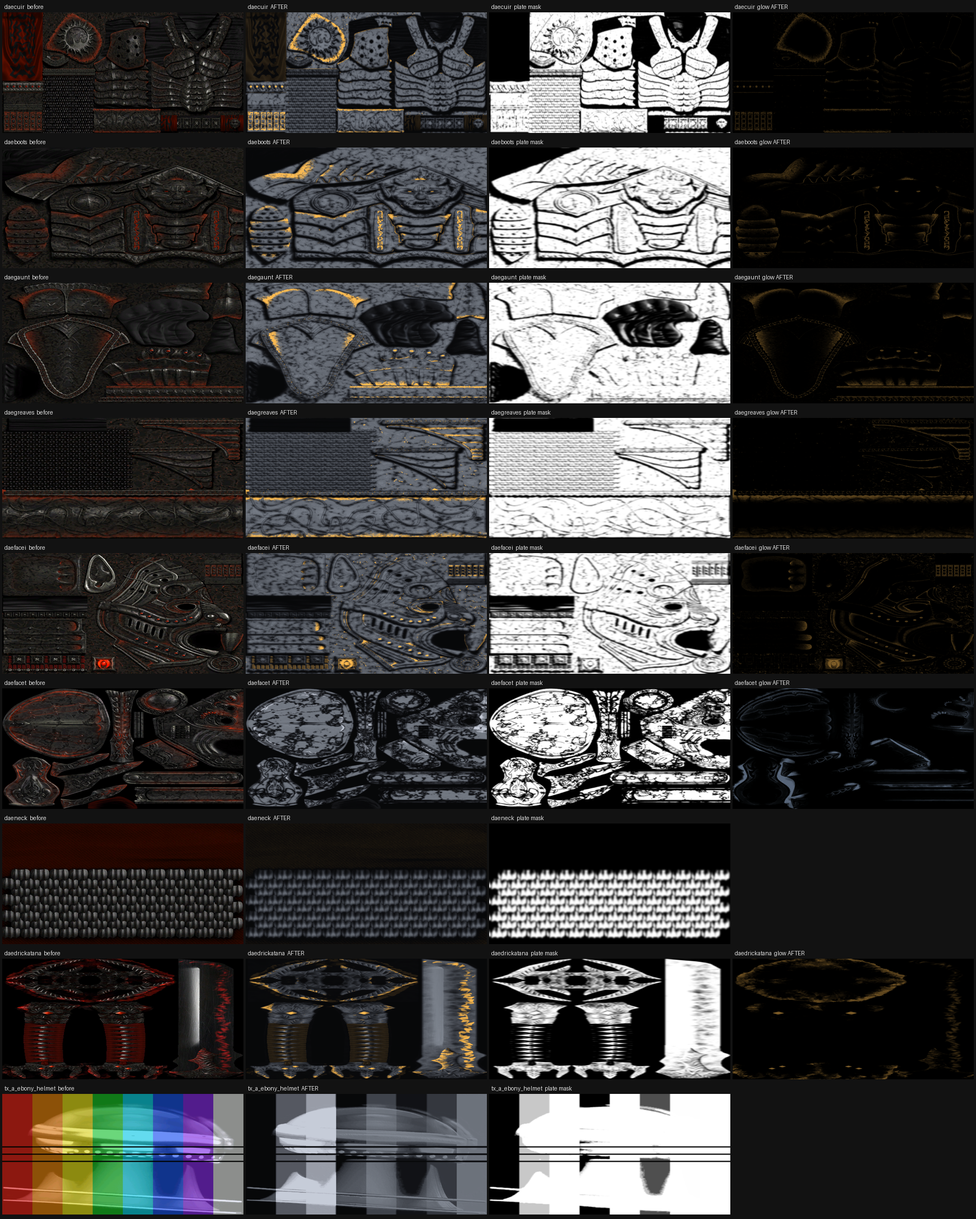
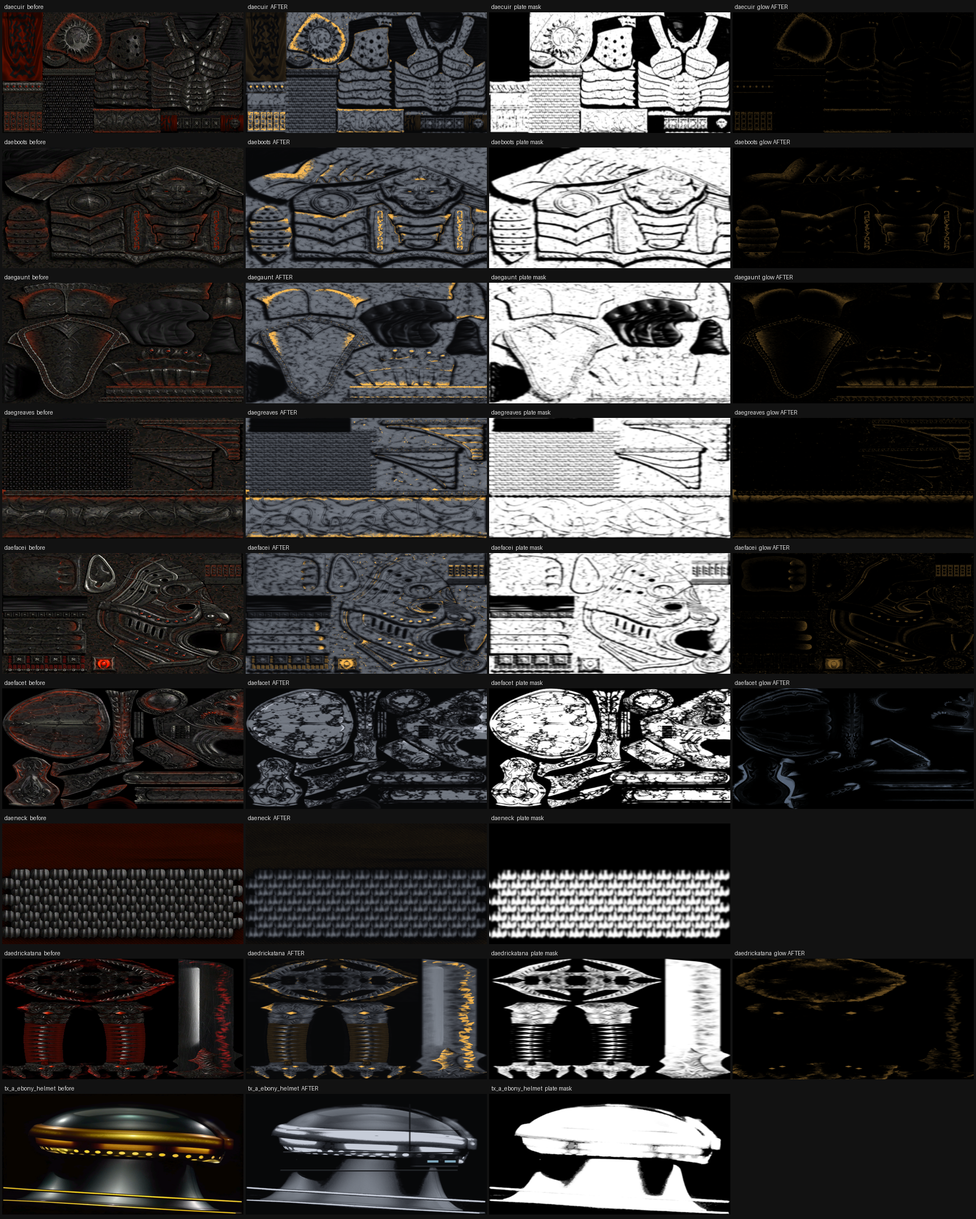
Bold and few on the helm, placed from the measured anchors
Faig's steer: similar to the reference, not a copy of it, and no
madness. Right call - the helm is about a hundred pixels tall on screen,
so anything finer than a few texture pixels is mush at the only
distance that matters.

So: two crown seams that stop short of the pole, a brow groove, a dark
face plate that ends at the temples, two slits with a cool inner line,
and the seam where the flare begins. That is the whole layout.

Placement is in sheet coordinates anchored on his two readings, not
derived from the mesh. Rasterising was tried and this mesh will not
support it: its UV islands overlap heavily, different parts of the
shell share the same pixels, and resolving that by "furthest surface
wins" turns the azimuth map into a patchwork. What the raster is good
for is the coverage mask, and that is what it supplies here - it keeps
the drawing on the helmet instead of across the empty margins.

The overlap resolution is kept in uvmap.py anyway, because the
rectangular tears it fixes were real and the next mesh may unwrap
cleanly.

Changed region(s): [[0.0, 0.8942, 0.7759, 1.0]]

diff --git a/tools/scripts/paint_helm.py b/tools/scripts/paint_helm.py
@@ -1,64 +1,65 @@
 #!/usr/bin/env python3
-"""Paint a Pragmata-style panel layout onto the closed helm.
+"""Paint a few bold panel features onto the closed helm.
 
 Drawn on top of the converted texture, never instead of it, so the plate colour,
-the marbling, the kant and the baked sheen all come through and the helm belongs
-to the same set as the cuirass. Faig asked for that in as many words: it has to
-feel like a suit, not a hat from another game.
+the marbling, the kant and the baked sheen come through and the helm belongs to
+the same set as the cuirass. Faig asked for that in as many words.
 
-## Everything is placed on the helmet, not on the sheet
+## Similar, not identical
 
-The first version drew in sheet coordinates and assumed the horizontal axis ran
-evenly around the head. It does not. This helm's unwrap is closer to a side
-projection: a straight-line fit of u against azimuth leaves 0.10 turns of
-residual - 36 degrees - and the drawing landed across the empty margins as well
-as the helmet.
+His steer, and it is the right one: make it *like* the reference, not a copy of
+it. The helmet is about a hundred pixels tall on screen, so anything finer than
+a few texture pixels is mush at the only distance that matters. Few shapes, big,
+legible. A greeble field would be work spent on something nobody can see.
 
-So the layout is specified where it belongs, in **height and azimuth on the
-actual helmet**, and `uvmap.py` rasterises the mesh's own triangles to tell each
-pixel which point of the helmet it is. No fit, no residual.
+## How placement works, and what it costs
 
-Two numbers anchor it, and only one of them could not be computed:
+Two coordinate systems were tried.
 
-    FRONT_AZ = +0.0873   which way the helmet faces
-    EYE_H    = -0.30     the height of the eyes
+Rasterising the mesh gives an exact per-pixel map - `uvmap.py` still does, and
+its **coverage mask is used here**, which is what keeps the drawing on the
+helmet instead of across the empty margins. But this mesh's UV islands overlap
+heavily: different parts of the shell share the same pixels, and resolving that
+by "the surface furthest out wins" turns the azimuth map into a patchwork. The
+mesh simply does not carry a clean unwrap to paint on.
 
-Geometry cannot say which way a helmet faces, so that was measured on screen:
-`uv_calibrate.py` painted eight named colour bands and three rules, Faig wore it
-and looked, and reported violet at the front and the bottom rule on his eyes.
-Those two readings became these two numbers.
+What it does carry is enough for the *visible* surface, and the calibration
+screenshot proves it: the eight colour bands came out in order across the front
+of the helm. So placement is done in sheet coordinates, anchored on the two
+readings Faig took, and refined against screenshots rather than derived.
 
-Height landmarks on this helm, read off the rasterised map: crown +8.6, the wide
-band +4.0, the stud row +1.5, eyes -0.3, the neck flare below -1.7.
+    FRONT_U = 0.8125   the violet band, measured on screen
+    EYE_V   = 0.56     the bottom rule, measured on screen
+
+That is worth perhaps ten or twenty degrees of imprecision, which is why every
+feature here is wide enough not to care.
 
 ## Why the relief is faint
 
 No geometry is generated - the rules forbid it - so depth is faked with a dark
-groove and a lit lip. It stays subtle on purpose: the shading is baked from one
-fixed direction while the engine lights the helm from wherever the sun is, and a
-strong bake contradicts the real light the moment the player turns round. Soft
-edges survive that. Dramatic chiaroscuro does not.
+groove and a lit lip above it. It stays subtle on purpose: the shading is baked
+from one direction while the engine lights the helm from wherever the sun is, so
+a strong bake contradicts the real light the moment the player turns round.
 """
 
 import numpy as np
 
-FRONT_AZ = 0.0873       # measured on screen, 2026-08-30
-EYE_H = -0.30
+FRONT_U = 0.8125        # measured on screen, 2026-08-30
+EYE_V = 0.56
 
-VISOR_TOP = 1.15        # heights, in the mesh's own units
-VISOR_BOTTOM = -1.55
-BROW_H = 2.35
-CROWN_SEAM_H = 5.25
-FLARE_H = -1.95
+CROWN_SEAM_V = 0.300
+BROW_V = 0.487
+VISOR_TOP = 0.505
+VISOR_BOTTOM = 0.605
+FLARE_V = 0.638
 
 DARK = np.array([0.055, 0.060, 0.072], np.float32)    # a groove
-VISOR = np.array([0.048, 0.053, 0.066], np.float32)   # the face plate
+VISOR = np.array([0.050, 0.055, 0.068], np.float32)   # the face plate
 LIP = np.array([0.74, 0.77, 0.83], np.float32)        # the lit edge of a panel
-OPTIC = np.array([0.60, 0.78, 0.88], np.float32)      # the slit itself
+OPTIC = np.array([0.58, 0.76, 0.86], np.float32)      # the slit itself
 
 
 def _turns(a):
-    """Wrap a difference in turns to -0.5 .. 0.5."""
     return (a + 0.5) % 1.0 - 0.5
 
 
@@ -68,65 +69,56 @@ def _span(x, lo, hi, soft):
             * np.clip((hi - x) / soft + 1.0, 0.0, 1.0))
 
 
-def _line(x, at, half, soft):
+def _rule(x, at, half, soft):
     return _span(np.abs(x - at), -1.0, half, soft)
 
 
-def paint(rgba, height, azimuth, cover, strength=1.0):
-    """Return the texture with the panel layout drawn on it.
-
-    `height`, `azimuth` and `cover` come from `uvmap.rasterise` and
-    `uvmap.polar` - per pixel, where on the helmet this pixel lands and whether
-    it lands on it at all. Nothing is drawn off the helmet.
-    """
+def paint(rgba, cover=None, strength=1.0):
+    """Return the texture with the panel features drawn on it."""
+    h, w = rgba.shape[:2]
+    rows, cols = np.mgrid[0:h, 0:w].astype(np.float32)
+    v = rows / (h - 1)
+    u = cols / (w - 1)
+    du = _turns(u - FRONT_U)
     out = rgba.copy()
-    body = np.asarray(cover, np.float32)
-    da = _turns(azimuth - FRONT_AZ)      # 0 dead ahead
-    ahead = np.abs(da)
+    body = (np.ones((h, w), np.float32) if cover is None
+            else np.asarray(cover, np.float32))
 
     def lay(mask, colour, amount=1.0):
         m = np.clip(mask * body * strength * amount, 0.0, 1.0)[..., None]
         out[..., :3] = out[..., :3] * (1.0 - m) + colour * m
 
     def groove(mask, depth=1.0, lip=0.5):
-        """A dark line with a lit edge above it: the only depth cue available."""
         lay(mask, DARK, depth)
-        lifted = np.roll(mask, -2, axis=0)
+        lifted = np.roll(mask, -max(int(h * 0.003), 1), axis=0)
         lay(np.clip(lifted - mask, 0.0, 1.0), LIP, lip)
 
-    # --- the crown --------------------------------------------------------
-    # Panel seams running up the dome were tried and cut. Lines of constant
-    # azimuth converge at the pole, and a helmet with six lines meeting on the
-    # crown reads as a cracked eggshell rather than as panelling. Doing it
-    # properly means seams that stop short of the top and vary in width, which
-    # is art direction and wants its own round.
-    groove(_line(height, CROWN_SEAM_H, 0.10, 0.10), 0.55, 0.4)
-
-    # --- the brow ----------------------------------------------------------
-    groove(_line(height, BROW_H, 0.10, 0.09), 1.0, 0.65)
-
-    # --- the visor ---------------------------------------------------------
-    # A face plate, not a belt: it stops at the temples.
-    front = _span(ahead, -1.0, 0.150, 0.045)
-    face = _span(height, VISOR_BOTTOM, VISOR_TOP, 0.18) * front
-    lay(face, VISOR, 0.90)
-    groove(_line(height, VISOR_BOTTOM, 0.09, 0.09) * front, 1.0, 0.55)
-
-    # --- the eye slits -----------------------------------------------------
-    # Opaque, as asked: a dark recess with a bright inner line, which is what
-    # reads as a lens at this size rather than as a hole.
+    # Two seams down the crown, stopping well short of the top. Lines of
+    # constant azimuth all the way to the pole converge there and read as a
+    # cracked eggshell, which is what the first attempt looked like.
+    crown = _span(v, 0.115, BROW_V - 0.01, 0.045)
     for side in (1.0, -1.0):
-        centre = side * 0.052
-        slit = (_span(np.abs(da - centre), -1.0, 0.034, 0.006)
-                * _span(height, EYE_H - 0.62, EYE_H + 0.62, 0.10))
-        lay(slit, DARK, 1.0)
-        inner = (_span(np.abs(da - centre), -1.0, 0.028, 0.005)
-                 * _span(height, EYE_H - 0.30, EYE_H + 0.30, 0.07))
-        lay(inner, OPTIC, 0.85)
+        groove(_rule(du, side * 0.132, 0.0022, 0.0022) * crown, 0.75, 0.45)
+    groove(_rule(v, CROWN_SEAM_V, 0.0025, 0.0025), 0.5, 0.35)
 
-    # --- the neck flare ----------------------------------------------------
-    groove(_line(height, FLARE_H, 0.09, 0.09), 1.0, 0.5)
-    for ring in (-3.55, -5.05):
-        groove(_line(height, ring, 0.07, 0.07), 0.45, 0.3)
+    # The brow, and the face plate under it. The visor stops at the temples: it
+    # is a plate, not a belt.
+    groove(_rule(v, BROW_V, 0.0035, 0.003), 0.95, 0.6)
+    front = _span(np.abs(du), -1.0, 0.105, 0.028)
+    lay(_span(v, VISOR_TOP, VISOR_BOTTOM, 0.008) * front, VISOR, 0.88)
+    groove(_rule(v, VISOR_BOTTOM, 0.003, 0.003) * front, 0.9, 0.5)
 
+    # The slits. Opaque, as asked - a dark recess with a bright inner line,
+    # which is what reads as a lens at this size rather than as a hole.
+    for side in (1.0, -1.0):
+        at = side * 0.036
+        recess = (_span(np.abs(du - at), -1.0, 0.026, 0.005)
+                  * _span(v, EYE_V - 0.017, EYE_V + 0.017, 0.004))
+        lay(recess, DARK, 1.0)
+        lens = (_span(np.abs(du - at), -1.0, 0.021, 0.004)
+                * _span(v, EYE_V - 0.008, EYE_V + 0.008, 0.003))
+        lay(lens, OPTIC, 0.85)
+
+    # Where the shell ends and the neck flare begins.
+    groove(_rule(v, FLARE_V, 0.0035, 0.003), 0.9, 0.45)
     return np.clip(out, 0.0, 1.0)

diff --git a/tools/scripts/make_armour.py b/tools/scripts/make_armour.py
@@ -56,6 +56,7 @@ from PIL import Image, ImageFilter
 sys.path.insert(0, os.path.dirname(os.path.abspath(__file__)))
 from dds import write_dxt  # noqa: E402
 from paint_helm import paint as paint_helm  # noqa: E402
+from uvmap import rasterise, read_mesh  # noqa: E402
 from effective import parse_cfg  # noqa: E402
 
 PLAY_CFG = r"D:/Backups/OneDrive/All/Documents/My Games/OpenMW/play/openmw.cfg"
@@ -72,7 +73,7 @@ FOLDER = "jy_daedric"
 #   paint       "pragmata" draws a panel layout on top; see paint_helm.py
 DEFAULTS = {"folder": "", "spec": "_s", "normal": "_n", "glow": "_g",
             "plate_from": "spec", "trim": "red", "gold": True,
-            "paint": None}
+            "paint": None, "mesh": None}
 
 PIECES = (
     {"stem": "daecuir", "folder": "jy_daedric"},
@@ -95,12 +96,10 @@ PIECES = (
     # element he did not like, so the band and the studs go to steel.
     {"stem": "tx_a_ebony_helmet", "spec": "_spec",
      "plate_from": "diffuse", "trim": "warm", "gold": False,
-     # "paint": "pragmata" is written and works, and is off. The layout it
-     # draws is not good enough to wear yet: seams converging on the crown read
-     # as cracks, and the wide horizontal bands cross the sheet in steps. The
-     # machinery under it - an exact per-pixel map from texture to helmet - is
-     # the part that was hard, and it is done. The design on top wants rounds.
-     "paint": None},
+     # A few bold features, drawn on top. The mesh is named so its coverage can
+     # be rasterised: that is what keeps the drawing on the helmet rather than
+     # across the empty margins of the sheet.
+     "paint": "helm", "mesh": "meshes/a/a_ebony_helmet.nif"},
 )
 
 # The palette. Four colours and two ramps: a plate lit and a plate in shadow, a
@@ -386,8 +385,10 @@ def main():
             diffuse, specular, args.contrast, args.blur, args.grain,
             args.detail, normal, args.kant, args.curve, args.gloss,
             p["gold"], p["plate_from"], p["trim"])
-        if p["paint"] == "pragmata":
-            after = paint_helm(after)
+        if p["paint"] == "helm":
+            _pos, cover = rasterise(*read_mesh(p["mesh"], args.config),
+                                    after.shape[0])
+            after = paint_helm(after, _blur(cover, 1.0))
         panels = [("before", before), ("AFTER", after),
                   ("plate mask", np.dstack([plate] * 3))]
         note = ""

diff --git a/tools/scripts/uvmap.py b/tools/scripts/uvmap.py
@@ -110,13 +110,20 @@ def parse_trishape(blob):
 def rasterise(verts, uv, tris, size):
     """Per-pixel 3D position over the UV sheet, and a coverage mask.
 
-    Nearest-triangle is not needed: the islands do not overlap, so a plain
-    scanline fill of each triangle is enough. Written straightforwardly rather
-    than cleverly - 230 triangles is nothing.
+    **The islands do overlap.** Assuming they did not left rectangular patches
+    across the height and azimuth maps where a small piece of the mesh - the
+    inside of the shell, a detail strip - had been rasterised over the main one,
+    and any pattern drawn on that map tore into steps exactly there.
+
+    So overlaps are resolved rather than ignored: the surface furthest from the
+    centre wins. That is the one the player can see, and it is the one a texture
+    is painted for.
     """
     h = w = size
     pos = np.zeros((h, w, 3), np.float32)
     cover = np.zeros((h, w), np.float32)
+    centre = verts.mean(axis=0)
+    best = np.full((h, w), -1.0, np.float32)
     px = uv[:, 0] * (w - 1)
     py = uv[:, 1] * (h - 1)
     for a, b, c in tris:
@@ -145,9 +152,14 @@ def rasterise(verts, uv, tris, size):
             continue
         p = (l0[..., None] * verts[a] + l1[..., None] * verts[b]
              + l2[..., None] * verts[c])
+        out = np.linalg.norm(p - centre, axis=-1).astype(np.float32)
         sl = (slice(y0, y1), slice(x0, x1))
-        pos[sl][inside] = p[inside]
-        cover[sl][inside] = 1.0
+        take = inside & (out > best[sl])
+        if not take.any():
+            continue
+        pos[sl][take] = p[take]
+        best[sl][take] = out[take]
+        cover[sl][take] = 1.0
     return pos, cover
 
 
